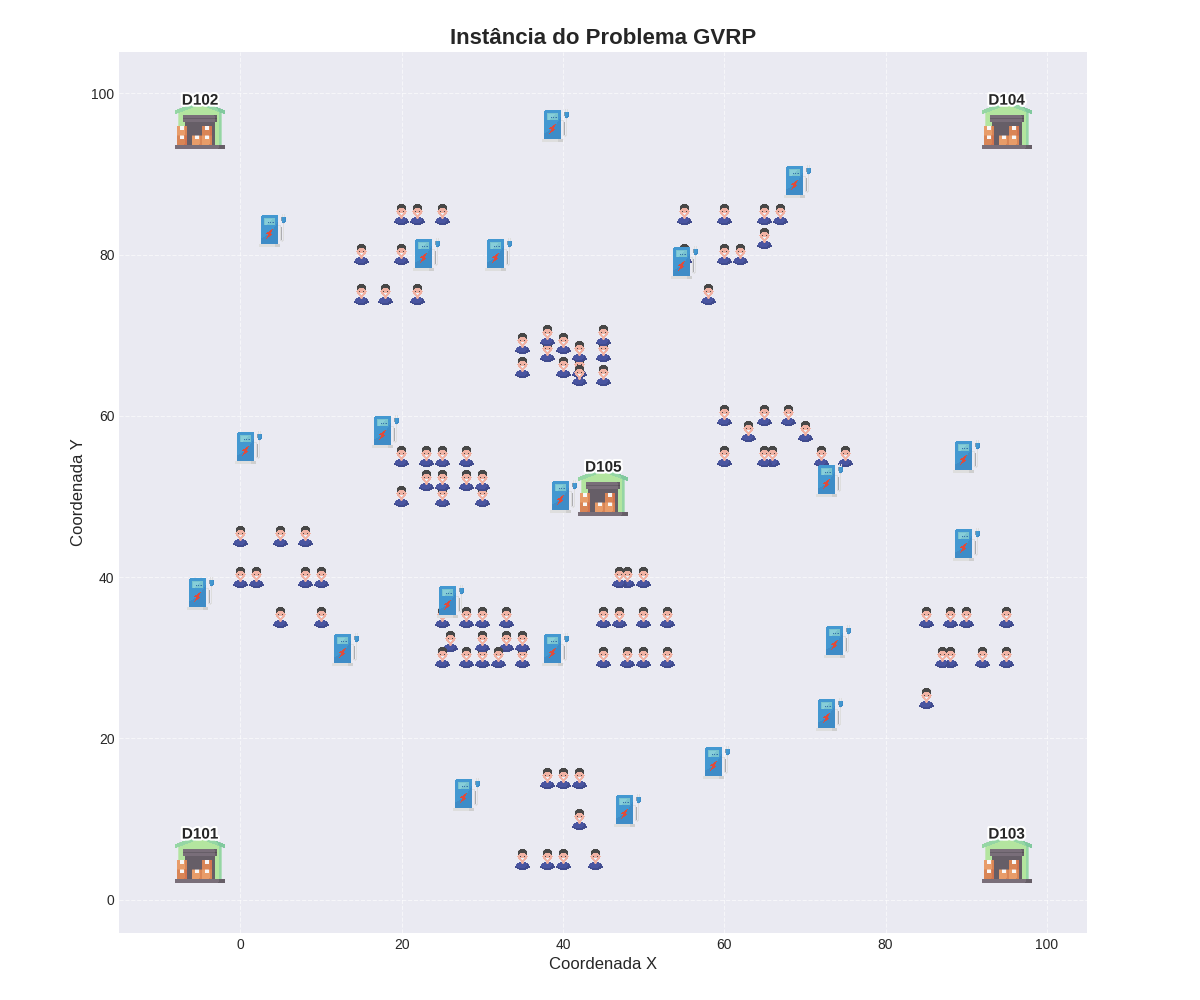
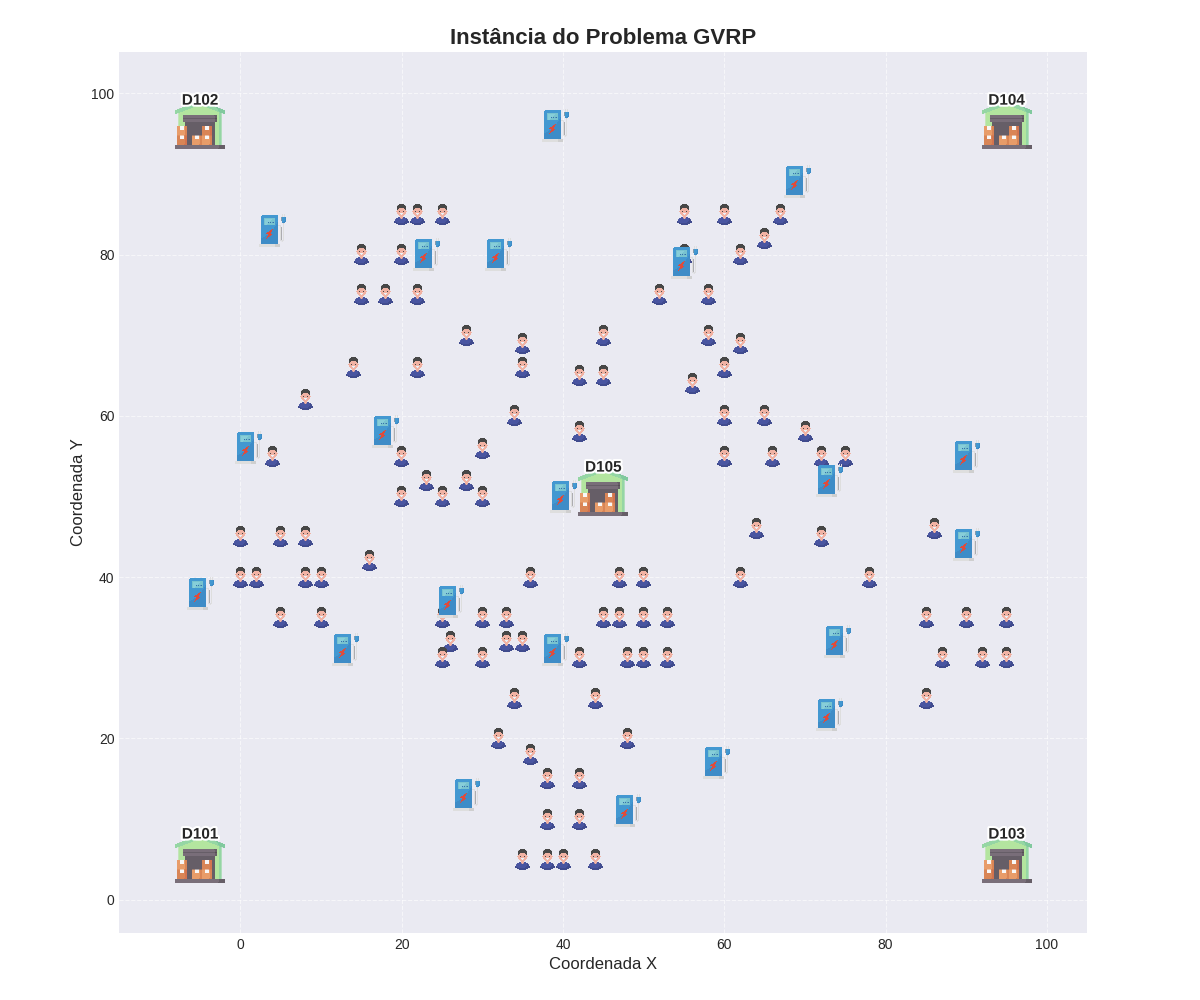
feat:a djust

diff --git a/src/process_all.py b/src/process_all.py
@@ -1,5 +1,8 @@
 import os
 import glob
+from concurrent.futures import ProcessPoolExecutor, as_completed
+from multiprocessing import cpu_count
+import time
 from EVRP.constructive_heuristic import ConstructiveHeuristic
 from EVRP.create_instance import create_evrp_instance
 from EVRP.local_search.recharge_realocation import RechargeRealocation
@@ -14,36 +17,133 @@ from process_single import process_single_instance
 from utils.plot_solution import plot_solution
 from utils.summary import print_instance_summary
 
-def process_all_instances():
+
+def process_instance_wrapper(args):
+    """
+    Wrapper function for parallel processing
+    Returns: (instance_file, success, error_message)
+    """
+    instance_file, index, total = args
+    try:
+        print(f"[{index}/{total}] Starting: {instance_file}")
+        process_single_instance(instance_file)
+        return (instance_file, True, None)
+    except Exception as e:
+        return (instance_file, False, str(e))
+
+
+def process_all_instances(max_workers=None):
     """
     Processa todas as instâncias disponíveis no diretório data/
-    e salva os resultados no diretório output/
+    em paralelo e salva os resultados no diretório output/
+    
+    Args:
+        max_workers: Número máximo de processos paralelos. 
+                     Se None, usa cpu_count() - 1
     """
-    print("Processando todas as instâncias disponíveis...")
+    print("Processando todas as instâncias disponíveis em PARALELO...")
     print("=" * 70)
     
+    # Criar diretório de saída
     os.makedirs("output", exist_ok=True)
     
+    # Coletar todas as instâncias
     data_dir = "data"
     all_instances = []
+    skipped_instances = []
     
     if os.path.exists(data_dir):
         instance_files = glob.glob(f"{data_dir}/*.txt")
-        all_instances.extend(instance_files)
+        for instance_file in instance_files:
+            # Extrair o nome da instância (sem extensão .txt)
+            instance_name = os.path.basename(instance_file).replace('.txt', '')
+            instance_output_dir = f"output/{instance_name}"
+            
+            # Verificar se o diretório de saída já existe
+            if os.path.exists(instance_output_dir) and os.path.isdir(instance_output_dir):
+                skipped_instances.append(instance_file)
+                print(f"⊘ Pulando {instance_name} (diretório já existe)")
+            else:
+                all_instances.append(instance_file)
     
-    print(f"Total de instâncias encontradas: {len(all_instances)}")
+    if not all_instances and not skipped_instances:
+        print("Nenhuma instância encontrada!")
+        return
     
-    for i, instance_file in enumerate(all_instances, 1):
-        print(f"\n[{i}/{len(all_instances)}] Processando: {instance_file}")
-        print("-" * 50)
+    total_instances = len(all_instances)
+    total_skipped = len(skipped_instances)
+    print(f"Total de instâncias encontradas: {total_instances + total_skipped}")
+    if total_skipped > 0:
+        print(f"Instâncias puladas (já processadas): {total_skipped}")
+    print(f"Instâncias a processar: {total_instances}")
+    
+    # Se não houver instâncias para processar, retornar
+    if total_instances == 0:
+        print("\nTodas as instâncias já foram processadas!")
+        return [], []
+    
+    # Determinar número de workers
+    if max_workers is None:
+        max_workers = max(1, cpu_count() - 1)
+    
+    print(f"Usando {max_workers} processos paralelos")
+    print("-" * 70)
+    
+    # Preparar argumentos para processamento paralelo
+    process_args = [
+        (instance, i+1, total_instances) 
+        for i, instance in enumerate(all_instances)
+    ]
+    
+    # Rastrear resultados
+    successful = []
+    failed = []
+    
+    start_time = time.time()
+    
+    # Processar em paralelo
+    with ProcessPoolExecutor(max_workers=max_workers) as executor:
+        # Submeter todas as tarefas
+        futures = {
+            executor.submit(process_instance_wrapper, args): args[0] 
+            for args in process_args
+        }
         
-        try:
-            process_single_instance(instance_file)
-        except Exception as e:
-            print(f"✗ Erro ao processar {instance_file}: {e}")
-            continue
+        # Processar resultados conforme completam
+        for future in as_completed(futures):
+            instance_file = futures[future]
+            try:
+                result = future.result()
+                instance_name, success, error = result
+                
+                if success:
+                    successful.append(instance_name)
+                    print(f"✓ Concluído: {instance_name}")
+                else:
+                    failed.append((instance_name, error))
+                    print(f"✗ Erro em {instance_name}: {error}")
+                    
+            except Exception as e:
+                failed.append((instance_file, str(e)))
+                print(f"✗ Exceção ao processar {instance_file}: {e}")
     
+    elapsed_time = time.time() - start_time
+    
+    # Imprimir resumo
     print(f"\n" + "="*70)
     print("PROCESSAMENTO CONCLUÍDO!")
-    print(f"Resultados salvos no diretório 'output/'")
+    print(f"Tempo total: {elapsed_time:.2f} segundos")
+    if total_skipped > 0:
+        print(f"Instâncias puladas (já processadas): {total_skipped}")
+    print(f"Sucesso: {len(successful)}/{total_instances}")
+    print(f"Falhas: {len(failed)}/{total_instances}")
+    
+    if failed:
+        print(f"\nInstâncias com erro:")
+        for instance, error in failed:
+            print(f"  - {instance}: {error}")
+    
+    print(f"\nResultados salvos no diretório 'output/'")
     print("="*70)
+    
+    return successful, failed

diff --git a/src/EVRP/classes/route.py b/src/EVRP/classes/route.py
@@ -50,7 +50,7 @@ class Route:
             self.is_feasible = False
             self.total_penalties += self.penalty_weight  # Depot structure violation
             return
-
+        
         start_depot_id = self.nodes[0].id
         prev_node_id = start_depot_id
         
@@ -126,6 +126,10 @@ class Route:
             duration_excess = current_time - instance.max_route_duration
             self.violations['duration_violations'] += 1
             self.total_penalties += duration_excess * self.penalty_weight
+
+        if self.total_cost == 0:
+            self.total_penalties += self.penalty_weight
+            self.is_feasible = False
     
     def dominates(self, new_route: "Route") -> bool:
         """

diff --git a/src/process_single.py b/src/process_single.py
@@ -47,7 +47,7 @@ def process_single_instance(instance_file):
         ns=5,           # Número de soluções por busca local
         na=50,          # Tamanho máximo do arquivo A
         ls_max_iter=5, # Máximo de tentativas de busca local
-        max_evaluations=3000,  # Máximo de avaliações,
+        max_evaluations=(2000 if len(instance.customers) < 50 else 1000),  # Máximo de avaliações,
         local_search=[
             TwoOpt(instance),
             Relocate(instance, is_intra_route=True),

diff --git a/src/main.py b/src/main.py
@@ -13,4 +13,4 @@ if __name__ == "__main__":
             process_single_instance(sys.argv[1])
     else:
         # Processa instância padrão
-        process_single_instance("./data/c101_21.txt")
+        process_single_instance("./data/rc108C5.txt")
